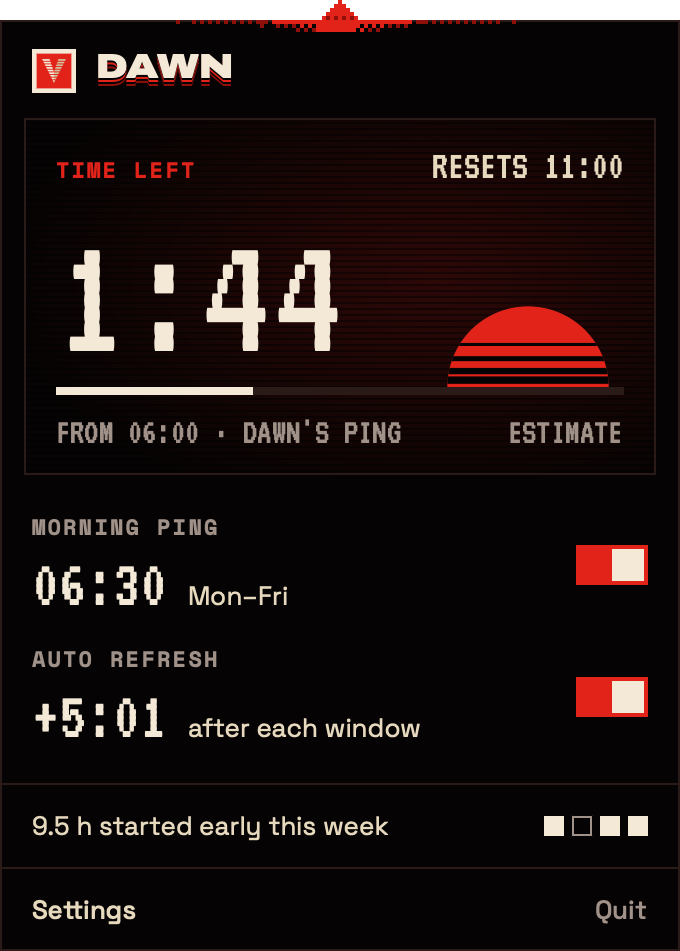
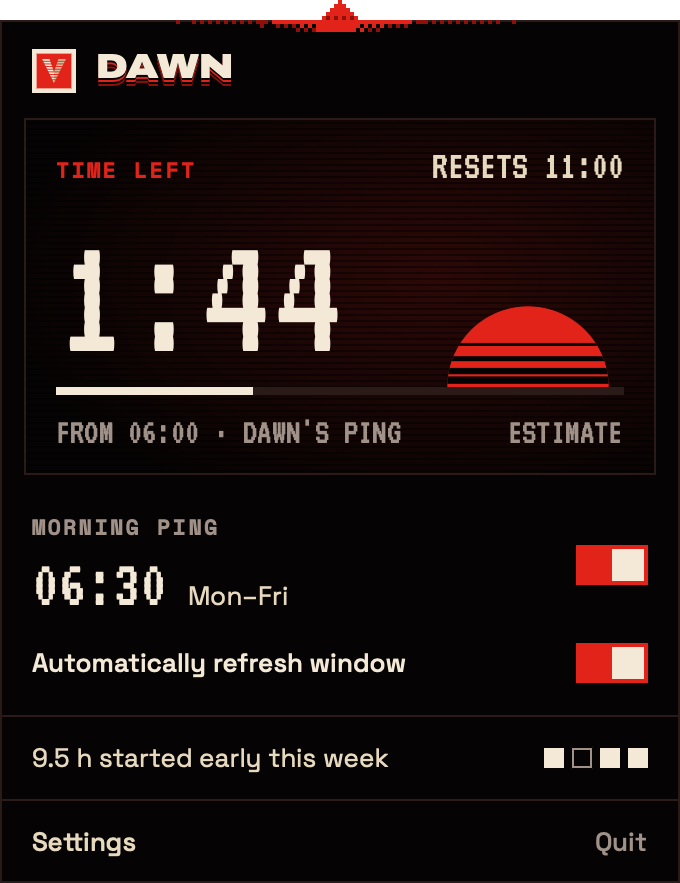
Dawn 0.3.1: plain 'Automatically refresh window' row

diff --git a/Sources/Dawn/PanelView.swift b/Sources/Dawn/PanelView.swift
@@ -95,16 +95,10 @@ struct MainView: View {
 
     /// Under the morning ping: keep a window going all day, a new one a minute after the last one ends.
     private var autoRefreshRow: some View {
-        let on = model.settings.enabled && model.settings.followUps
-        return HStack(alignment: .center, spacing: 12) {
-            VStack(alignment: .leading, spacing: 4) {
-                Text("Auto refresh").dawnLabel()
-                HStack(alignment: .firstTextBaseline, spacing: 10) {
-                    Text("+5:01").font(Fonts.vt(34)).foregroundColor(on ? Ident.cream : Ident.dim)
-                    Text(model.settings.enabled ? "after each window" : "needs the morning ping")
-                        .font(Fonts.grotesk(13)).foregroundColor(Ident.cream2)
-                }
-            }
+        HStack(alignment: .center, spacing: 12) {
+            Text("Automatically refresh window")
+                .font(Fonts.grotesk(13, weight: 500))
+                .foregroundColor(model.settings.enabled ? Ident.cream : Ident.dim)
             Spacer()
             DawnSwitch(isOn: $model.settings.followUps)
                 .opacity(model.settings.enabled ? 1 : 0.45)

diff --git a/Sources/Dawn/DawnApp.swift b/Sources/Dawn/DawnApp.swift
@@ -2,7 +2,7 @@ import AppKit
 import SwiftUI
 
 enum DawnInfo {
-    static let version = "0.3.0"
+    static let version = "0.3.1"
 }
 
 final class AppDelegate: NSObject, NSApplicationDelegate {
